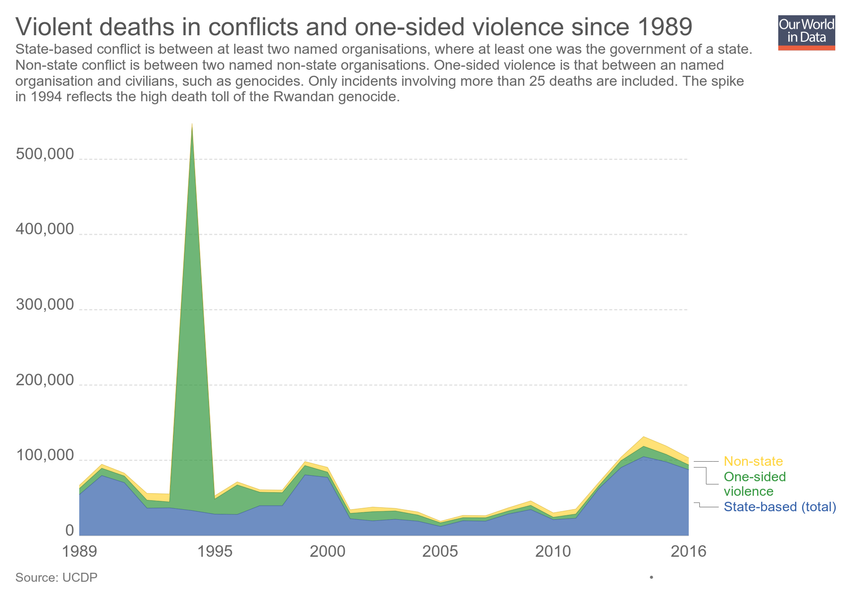
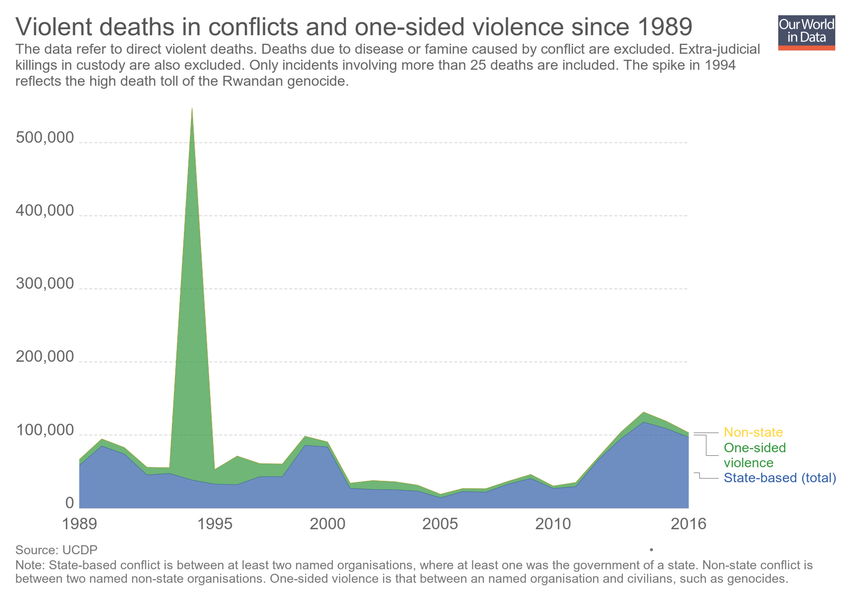
Updating chart violent-deaths-in-conflicts-and-one-sided-violence-since-1989

diff --git a/grapher/violent-deaths-in-conflicts-and-one-sided-violence-since-1989.html b/grapher/violent-deaths-in-conflicts-and-one-sided-violence-since-1989.html
@@ -1,4 +1,4 @@
-<!doctype html><html><head><meta name="viewport" content="width=device-width, initial-scale=1" /><title>Violent deaths in conflicts and one-sided violence since 1989 - Our World in Data</title><meta name="description" content="State-based conflict is between at least two named organisations, where at least one was the government of a state. Non-state conflict is between two named non-state organisations. One-sided violence is that between an named organisation and civilians, such as genocides. Only incidents involving more than 25 deaths are included. The spike in 1994 reflects the high death toll of the Rwandan genocide." /><link rel="canonical" href="https://ourworldindata.org/grapher/violent-deaths-in-conflicts-and-one-sided-violence-since-1989" /><meta property="fb:app_id" content="1149943818390250" /><meta property="og:url" content="https://ourworldindata.org/grapher/violent-deaths-in-conflicts-and-one-sided-violence-since-1989" /><meta property="og:title" content="Violent deaths in conflicts and one-sided violence since 1989" /><meta property="og:description" content="State-based conflict is between at least two named organisations, where at least one was the government of a state. Non-state conflict is between two named non-state organisations. One-sided violence is that between an named organisation and civilians, such as genocides. Only incidents involving more than 25 deaths are included. The spike in 1994 reflects the high death toll of the Rwandan genocide." /><meta property="og:image" content="https://ourworldindata.org/grapher/exports/violent-deaths-in-conflicts-and-one-sided-violence-since-1989.png?v=1" /><meta property="og:image:width" content="850" /><meta property="og:image:height" content="600" /><meta property="og:site_name" content="Our World in Data" /><meta name="twitter:card" content="summary_large_image" /><meta name="twitter:site" content="@OurWorldInData" /><meta name="twitter:creator" content="@OurWorldInData" /><meta name="twitter:title" content="Violent deaths in conflicts and one-sided violence since 1989" /><meta name="twitter:description" content="State-based conflict is between at least two named organisations, where at least one was the government of a state. Non-state conflict is between two named non-state organisations. One-sided violence is that between an named organisation and civilians, such as genocides. Only incidents involving more than 25 deaths are included. The spike in 1994 reflects the high death toll of the Rwandan genocide." /><meta name="twitter:image" content="https://ourworldindata.org/grapher/exports/violent-deaths-in-conflicts-and-one-sided-violence-since-1989.png?v=1" /><style>
+<!doctype html><html><head><meta name="viewport" content="width=device-width, initial-scale=1" /><title>Violent deaths in conflicts and one-sided violence since 1989 - Our World in Data</title><meta name="description" content="The data refer to direct violent deaths. Deaths due to disease or famine caused by conflict are excluded. Extra-judicial killings in custody are also excluded. Only incidents involving more than 25 deaths are included. The spike in 1994 reflects the high death toll of the Rwandan genocide." /><link rel="canonical" href="https://ourworldindata.org/grapher/violent-deaths-in-conflicts-and-one-sided-violence-since-1989" /><meta property="fb:app_id" content="1149943818390250" /><meta property="og:url" content="https://ourworldindata.org/grapher/violent-deaths-in-conflicts-and-one-sided-violence-since-1989" /><meta property="og:title" content="Violent deaths in conflicts and one-sided violence since 1989" /><meta property="og:description" content="The data refer to direct violent deaths. Deaths due to disease or famine caused by conflict are excluded. Extra-judicial killings in custody are also excluded. Only incidents involving more than 25 deaths are included. The spike in 1994 reflects the high death toll of the Rwandan genocide." /><meta property="og:image" content="https://ourworldindata.org/grapher/exports/violent-deaths-in-conflicts-and-one-sided-violence-since-1989.png?v=2" /><meta property="og:image:width" content="850" /><meta property="og:image:height" content="600" /><meta property="og:site_name" content="Our World in Data" /><meta name="twitter:card" content="summary_large_image" /><meta name="twitter:site" content="@OurWorldInData" /><meta name="twitter:creator" content="@OurWorldInData" /><meta name="twitter:title" content="Violent deaths in conflicts and one-sided violence since 1989" /><meta name="twitter:description" content="The data refer to direct violent deaths. Deaths due to disease or famine caused by conflict are excluded. Extra-judicial killings in custody are also excluded. Only incidents involving more than 25 deaths are included. The spike in 1994 reflects the high death toll of the Rwandan genocide." /><meta name="twitter:image" content="https://ourworldindata.org/grapher/exports/violent-deaths-in-conflicts-and-one-sided-violence-since-1989.png?v=2" /><style>
         html, body {
             height: 100%;
             margin: 0;
@@ -20,8 +20,8 @@
         }
     </style><noscript><style>
                     figure { display: none !important; }
-                </style></noscript><link rel="stylesheet" href="https://ourworldindata.org/grapher/assets/commons.bundle.62f8703dfc964fd3975c.css" /><link rel="preload" href="/grapher/data/variables/97369.json?v=1" as="fetch" crossorigin /></head><body class="singleChart"><figure data-grapher-src="/grapher/violent-deaths-in-conflicts-and-one-sided-violence-since-1989"></figure><noscript id="fallback"><img src="/grapher/exports/violent-deaths-in-conflicts-and-one-sided-violence-since-1989.svg" /><p>Interactive visualization requires JavaScript</p></noscript><script src="https://cdn.polyfill.io/v2/polyfill.min.js?features=es6,fetch"></script><script src="https://ourworldindata.org/grapher/assets/commons.bundle.62f8703dfc964fd3975c.js"></script><script src="https://ourworldindata.org/grapher/assets/charts.bundle.dcf65b68eddaba4c6a58.js"></script><script>
-        var jsonConfig = {"map":{"projection":"World","colorSchemeLabels":[],"colorSchemeValues":[],"colorSchemeMinValue":0,"customNumericColors":[],"customCategoryColors":{},"customCategoryLabels":{},"customHiddenCategories":{}},"tab":"chart","slug":"violent-deaths-in-conflicts-and-one-sided-violence-since-1989","type":"StackedArea","title":"Violent deaths in conflicts and one-sided violence since 1989","xAxis":{"scaleType":"linear"},"yAxis":{"min":0,"scaleType":"linear"},"version":1,"subtitle":"State-based conflict is between at least two named organisations, where at least one was the government of a state. Non-state conflict is between two named non-state organisations. One-sided violence is that between an named organisation and civilians, such as genocides. Only incidents involving more than 25 deaths are included. The spike in 1994 reflects the high death toll of the Rwandan genocide.","hasMapTab":false,"stackMode":"absolute","dimensions":[{"display":{},"property":"y","variableId":97369}],"isAutoSlug":true,"sourceDesc":"UCDP","hasChartTab":true,"isPublished":true,"selectedData":[{"index":0,"entityId":37489},{"index":0,"entityId":37488},{"index":0,"entityId":37490}],"addCountryMode":"disabled","id":2575};
+                </style></noscript><link rel="stylesheet" href="https://ourworldindata.org/grapher/assets/commons.bundle.62f8703dfc964fd3975c.css" /><link rel="preload" href="/grapher/data/variables/97369.json?v=2" as="fetch" crossorigin /></head><body class="singleChart"><figure data-grapher-src="/grapher/violent-deaths-in-conflicts-and-one-sided-violence-since-1989"></figure><noscript id="fallback"><img src="/grapher/exports/violent-deaths-in-conflicts-and-one-sided-violence-since-1989.svg" /><p>Interactive visualization requires JavaScript</p></noscript><script src="https://cdn.polyfill.io/v2/polyfill.min.js?features=es6,fetch"></script><script src="https://ourworldindata.org/grapher/assets/commons.bundle.62f8703dfc964fd3975c.js"></script><script src="https://ourworldindata.org/grapher/assets/charts.bundle.dcf65b68eddaba4c6a58.js"></script><script>
+        var jsonConfig = {"id":2575,"map":{"projection":"World","colorSchemeLabels":[],"colorSchemeValues":[],"colorSchemeMinValue":0,"customNumericColors":[],"customCategoryColors":{},"customCategoryLabels":{},"customHiddenCategories":{}},"tab":"chart","note":"State-based conflict is between at least two named organisations, where at least one was the government of a state. Non-state conflict is between two named non-state organisations. One-sided violence is that between an named organisation and civilians, such as genocides. ","slug":"violent-deaths-in-conflicts-and-one-sided-violence-since-1989","type":"StackedArea","title":"Violent deaths in conflicts and one-sided violence since 1989","xAxis":{"scaleType":"linear"},"yAxis":{"min":0,"scaleType":"linear"},"version":2,"subtitle":"The data refer to direct violent deaths. Deaths due to disease or famine caused by conflict are excluded. Extra-judicial killings in custody are also excluded. Only incidents involving more than 25 deaths are included. The spike in 1994 reflects the high death toll of the Rwandan genocide.","hasMapTab":false,"stackMode":"absolute","dimensions":[{"display":{},"property":"y","variableId":97369}],"sourceDesc":"UCDP","hasChartTab":true,"isPublished":true,"selectedData":[{"index":0,"entityId":37489},{"index":0,"entityId":37488},{"index":0,"entityId":37490}],"addCountryMode":"disabled"};
         var figure = document.getElementsByTagName("figure")[0];
         try {
             window.App = {};
